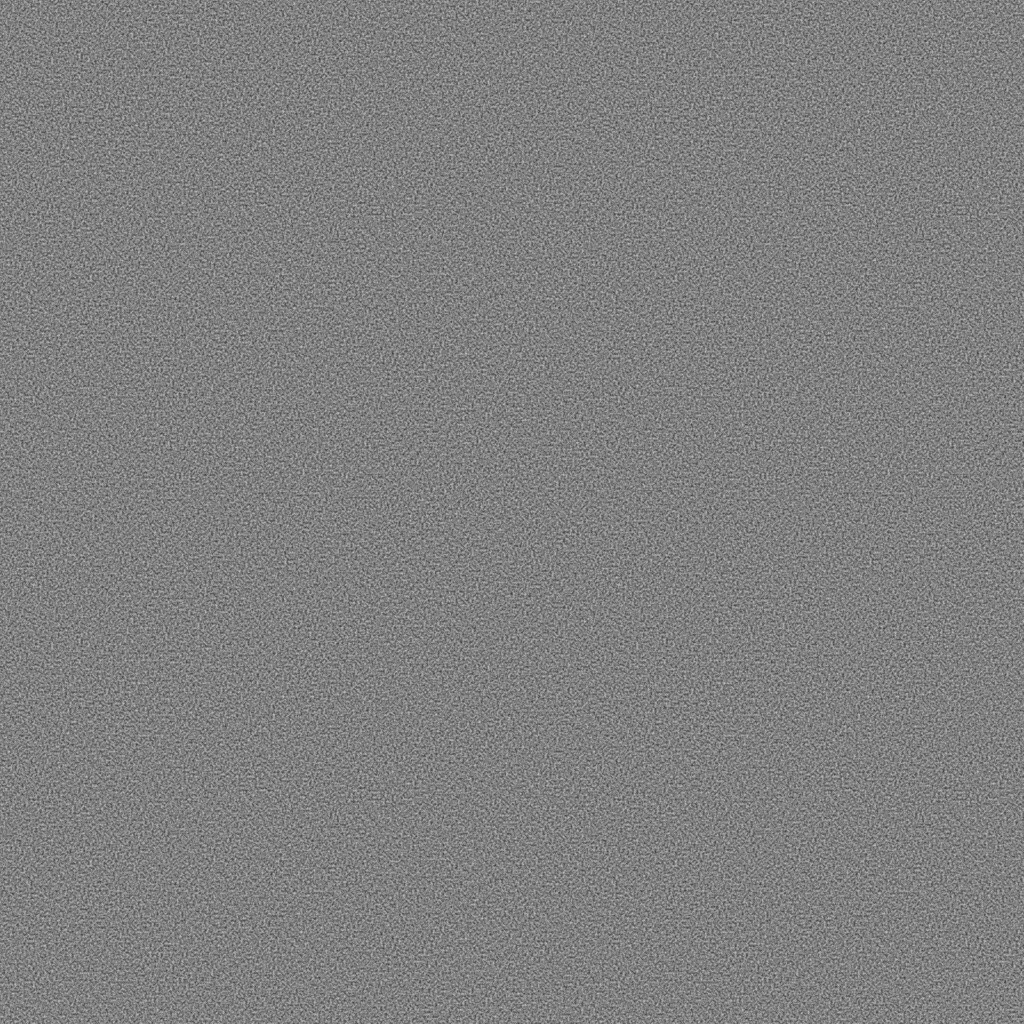
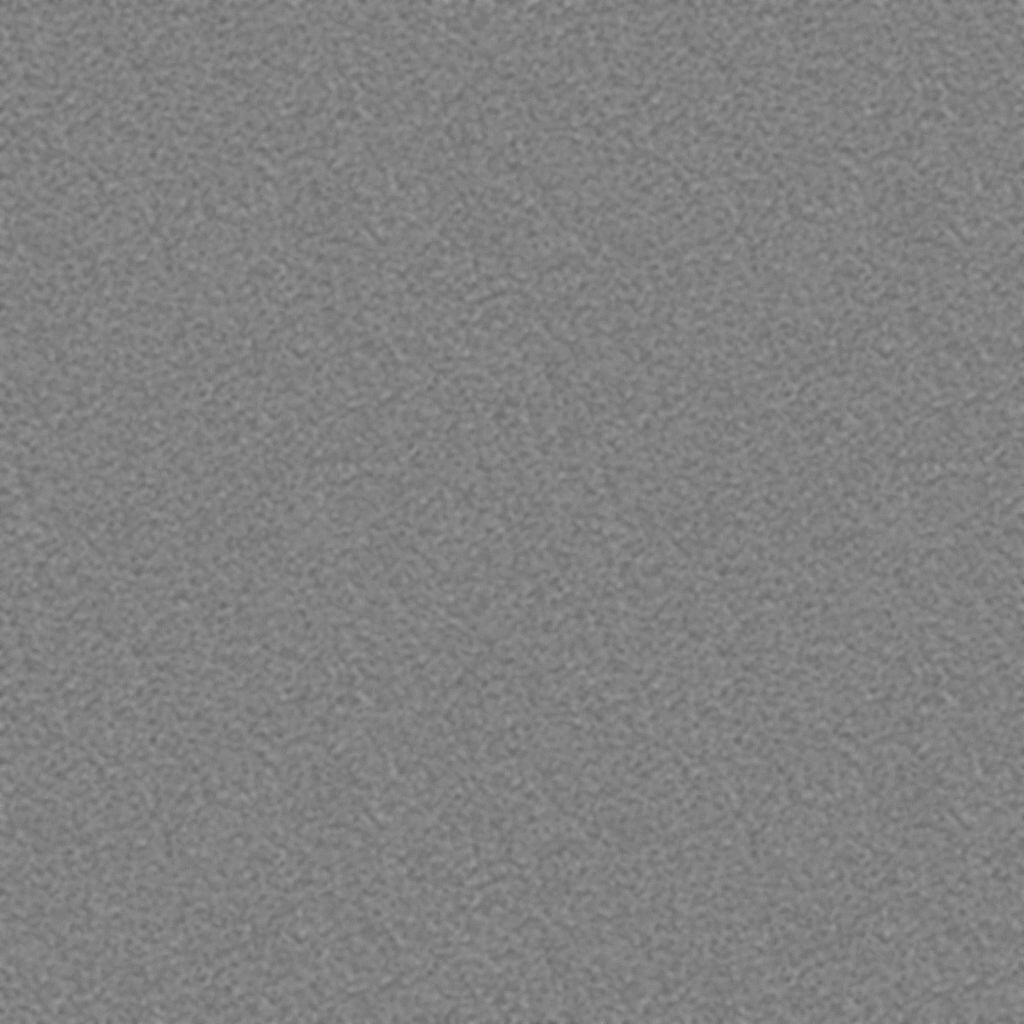
smooth the grain texture so its single pixels don't show on desktop

Changed region(s): [[0.0, 0.0, 1.0, 1.0]]

diff --git a/art/tiles/ember-orange/grain-texture.html b/art/tiles/ember-orange/grain-texture.html
@@ -1,9 +1,9 @@
 <!doctype html>
-<!-- renders editor/grain.png: the grain layer of grain-up.svg (overlay, opacity .5) over 50% grey, so drawing it with background-blend-mode: overlay on any face colour gives the same result as the svg.
+<!-- renders editor/grain.png: the grain layer of grain-up.svg (overlay, opacity .5) over 50% grey, smoothed (a 0.8-unit blur, with more contrast to make up for it) so it shows no single-pixel speckle when a tile is drawn smaller than 512px, so drawing it with background-blend-mode: overlay on any face colour gives the same result as the svg.
      it covers 2x2 faces (320 svg units at 3.2px each, the detail of a 512px face) and wraps seamlessly (stitchTiles), so each tile can show a different part of it.
      regenerate: google-chrome --headless --hide-scrollbars --force-device-scale-factor=1 --window-size=1024,1024 --screenshot=editor/grain.png art/tiles/ember-orange/grain-texture.html -->
 <html><body style="margin:0;background:#808080">
 <svg xmlns="http://www.w3.org/2000/svg" width="1024" height="1024" viewBox="0 0 320 320" style="display:block">
-<filter id="grain" x="0" y="0" width="320" height="320" filterUnits="userSpaceOnUse" color-interpolation-filters="sRGB"><feTurbulence type="fractalNoise" baseFrequency="1.4" numOctaves="4" seed="4" stitchTiles="stitch"/><feColorMatrix type="saturate" values="0"/><feComponentTransfer><feFuncR type="linear" slope="1.6" intercept="-0.3"/><feFuncG type="linear" slope="1.6" intercept="-0.3"/><feFuncB type="linear" slope="1.6" intercept="-0.3"/><feFuncA type="linear" slope="0" intercept="1"/></feComponentTransfer></filter>
+<filter id="grain" x="0" y="0" width="320" height="320" filterUnits="userSpaceOnUse" color-interpolation-filters="sRGB"><feTurbulence type="fractalNoise" baseFrequency="1.4" numOctaves="4" seed="4" stitchTiles="stitch"/><feColorMatrix type="saturate" values="0"/><feGaussianBlur stdDeviation="0.8"/><feComponentTransfer><feFuncR type="linear" slope="5.2" intercept="-2.1"/><feFuncG type="linear" slope="5.2" intercept="-2.1"/><feFuncB type="linear" slope="5.2" intercept="-2.1"/><feFuncA type="linear" slope="0" intercept="1"/></feComponentTransfer></filter>
 <g style="isolation:isolate"><rect width="320" height="320" fill="#808080"/><rect width="320" height="320" filter="url(#grain)" opacity="0.5" style="mix-blend-mode:overlay"/></g>
 </svg></body></html>

diff --git a/CLAUDE.md b/CLAUDE.md
@@ -75,7 +75,7 @@ Tapping empty space cancels back to `idle`. Invalid tile picks are ignored. `sel
 - `game/`: the rules as ES modules with no DOM access: `types.js` (tile/substrate registries, cell helpers), `targets.js`, `effects.js`, `level.js`, `state.js` (pure core) and `controller.js` (taps → moves).
 - `editor/bridge.js`: the only interface between the pages and the rules (see `editor/`).
 - `play/`: the tester page (`index.html`, `play.js`, `play.css`), live at https://catsarecuteandfast.github.io/cardgame/play/. It lists the levels in `levels/pack.json`, grouped under a heading per folder, and plays them with Undo/Redo/Reset and a "Next level" button after a win. There is no editing or sync. It reuses `../editor/editor.css` and `../editor/board.js`, imports `../editor/bridge.js`, and drives the same bridge calls as the editor's Play tab. Its Play screen fills the window height in one column: status and Undo/Redo/Reset at the top, the board sized to fit, the prompt line (with Cancel, or "Next level" after a win), and the hand pinned at the bottom as one row that scrolls sideways (`play/play.css`; `--top-h` is set from the header height in `play.js`). Both pages have a "↻ Reload" button in the header (`hardReload` in `editor/reload.js`, a plain script with no imports loaded before the modules, so it still works when a module fails to load; if the "Loading…" banner is still up when the page's `load` event fires, it changes to "Couldn't load the game. Press ↻ Reload."): it refetches the page and every same-origin file it loaded (script tags, stylesheets, and the imported rules modules, found through `performance.getEntriesByType("resource")`) with `cache: "reload"`, then reloads, because phones kept serving the old cached files after a deploy (`pack.json` is always fetched with `no-cache`). It keeps per-browser `cardgame.tester.solved` (solved levels, shown as ✓) and `cardgame.tester.last` in `localStorage`, keyed `folder/name` because names repeat across folders. On wide screens it keeps the one-column layout (`play.css` overrides the editor's two-column `#play` rule).
-- `art/`: design files from Drifl, not loaded by the game. `art/tiles/ember-orange/` holds the tile designs (`grain-*` for basic tiles, `stripes-*` for notswappable; `-up` is unflipped, `-lit` is flipped) as 160×160 SVGs. The web tiles reimplement them in CSS (see Web input). `grain-texture.html` renders `editor/grain.png` (the regenerate command is in its comment): the SVGs' grain layer over 50% grey, which gives the same result as the SVG when overlaid on any face colour. It covers 2×2 faces at 512px per face (1024px) and wraps seamlessly (`stitchTiles`). The committed `grain.png` is greyscale (825KB), made with a script that has since been removed, so regenerating it gives an RGB file of about 1.2MB.
+- `art/`: design files from Drifl, not loaded by the game. `art/tiles/ember-orange/` holds the tile designs (`grain-*` for basic tiles, `stripes-*` for notswappable; `-up` is unflipped, `-lit` is flipped) as 160×160 SVGs. The web tiles reimplement them in CSS (see Web input). `grain-texture.html` renders `editor/grain.png` (the regenerate command is in its comment): the SVGs' grain layer over 50% grey, which gives the same result as the SVG when overlaid on any face colour, except that it is smoothed (`feGaussianBlur` of 0.8 units, with the contrast raised from 1.6 to 5.2 to make up for it). The SVGs' grain is single-pixel noise, which showed as visible pixels when a tile is drawn smaller than the texture (desktop screens). It covers 2×2 faces at 512px per face (1024px, RGB, about 710KB) and wraps seamlessly (`stitchTiles`).
 - `editor/`: the web level editor, plain HTML/CSS/JS with no build step, made for phone, tablet (landscape) and PC use. A single breakpoint at 900px switches to the two-column layout. It is live at https://catsarecuteandfast.github.io/cardgame/editor/, served by GitHub Pages from `main` at the repo root (every push to `main` redeploys) (`.nojekyll` turns off Jekyll processing). All page scripts except `reload.js` are ES modules (`<script type="module">`) that import the rules statically, so there is no loading step. `editor/board.js` holds what is shared with `play/`: DOM helpers (`$`, `el`), board/hand rendering (`renderCell`, `renderSnapshot`), `playStatus`, `playPrompt`, `attachPlayInput`, `toast`, the colour tables and `catalog` (from the bridge). The editor is split by screen: `tune.js`/`tune.css` (a collapsible "Animations" panel under the Play tab's hand with sliders for the animations' CSS variables, grouped Tile flip/Tile unflip/Tile flip and unflip, each with a ↺ reset, plus "Copy values" and "Defaults"; values are kept in `cardgame.tester.tune.v2` and the open/closed state in `cardgame.editor.tune.open`; Drifl tunes there and sends the values to settle into `editor.css`, and later animations get their sliders there too), `editor.js` (entry point: the shared `ui` state (tab, paint mode, brush, `pickCard`), `render`, `setTab`, `changed`), `store.js` (levels and folders in `localStorage`, level data helpers such as `blankLevel`, `formatLevel`, `normalizeLevel`), `sync.js` (gist sync), `levels.js` (Levels screen, Copy all, import), `edit.js` (Edit tab), `playtest.js` (Play tab, Save solution) and `dialogs.js` (text dialog, clipboard). The modules import `ui`/`render` from `editor.js` and only use them inside functions, so the circular imports are safe. The bridge provides `catalog()` (tile, substrate and effect ids, allowed target kinds and `level_version`, built from the registries), `validate(level)` (null or an error message), `upgradeLevel`, `solution()` (the moves played so far) and `checkSolution(level, moves)` (`{plays}` or `{error}`), and `start`/`tapTile`/`tapCard`/`tapNothing`/`undo`/`redo`/`snapshot` for playtesting, plus `peek(index)`, which returns, without selecting anything, the candidates and preview the card would have if it were selected. All of them take and return plain objects. The snapshot has `game_id` (counts `start()` calls). Its hand entries include `label`, `effect`, target `kind`, the full `target` and `copy`, and the snapshot has `preview`/`blocked`/`needed`. Undo and redo work per play: the bridge keeps the game after each completed play (a play is complete when the plays left change), so undo just steps back. Undo also drops a half-made selection, and making a new play clears the redo stack. Levels are stored in that browser's `localStorage`: `cardgame.levels` (each has `id`, `name`, `folder` (folder id or null), `updated`, `data`, and optionally `solution`) and `cardgame.folders` (`id`, `name`, `collapsed`). Optional sync between devices goes through a secret GitHub gist holding `cardgame-levels.json` (`{version: 1, updated, levels, folders}`), called straight from the browser. The Sync dialog takes a gist-scoped token and a gist id; a blank id creates the gist from this device's levels. Each device keeps `cardgame.sync` (`token`, `gistId`, `remoteUpdated`, `dirty`); the token never leaves that browser except to api.github.com. The editor pulls on load and whenever the tab becomes visible, and pushes about 2 s after a change to levels or folders (and when the tab is hidden). A push first re-reads the gist. If the gist's `updated` differs from `remoteUpdated` while this device also has unsynced edits, a confirm asks which side wins; there is no merging. `localStorage` stays the working copy, so offline edits push later. The open level (`cardgame.current`) is per device and not synced. Folders are one level deep. The Levels screen sorts folders and levels by name with natural ordering, so "Level 2" comes before "Level 10". Deleting a folder moves its levels to Ungrouped. "Copy JSON" exports one level in the same compact layout as `levels/demo.json`. "Copy all" and a folder's "Copy" export `[{name, folder?, level, solution?}]`, sorted by folder and then name like the Levels screen (a folder's Copy first warns, listing them, if any of its levels is invalid or has no working solution, since those would fail the tests in `levels/pack.json`; Clone keeps the solution), and "Import JSON" accepts that list (recreating folders by name, keeping solutions) or a single level. After a win, the Play tab's prompt row shows "Save solution", which stores the moves played on the level record; the Edit tab shows below the validation whether the saved solution still wins the level as it is now (`renderSolution`).
 
 **Play flow** (`editor/bridge.js`): a tap in `board.js` → `tapCard`/`tapTile`/`tapNothing` → `handle(game, intent)` → `snapshot()` (built with `selection`) → `renderSnapshot`.

diff --git a/CHANGELOG.md b/CHANGELOG.md
@@ -2,6 +2,8 @@
 
 Newest first. Each entry gives the date, what changed and why. Older entries also give the commit hash; from this file's creation on, each entry is part of the commit it describes, so `git log -- CHANGELOG.md` finds it.
 
+- **2026-10-07**: smoothed the tile and card grain, since Drifl could see its single pixels on a 1920×1080 screen. The grain was single-pixel noise (as in the SVGs), so when a tile is drawn much smaller than the texture's 512px per face, as on desktop, it showed as harsh speckle. `grain-texture.html` now blurs the noise by 0.8 units and raises its contrast (5.2 instead of 1.6) so the grain stays visible, and `editor/grain.png` was regenerated from it (now RGB, 710KB instead of the 825KB greyscale file).
+
 - **2026-10-07**: "Flip all" no longer shows what it would change, as Drifl asked (working that out is up to the player): its tiles get only the card's dashed outline, with no press preview, fill or ✕ on blocked tiles.
 
 - **2026-10-07**: as Drifl asked, "Flip all" no longer previews with a coloured fill: while it is dragged, its tiles are pushed in (flipped ones let up) more the closer the card gets to the board's centre, and fully while it's selected or held. The drag's closeness to the centre (`--drag`) is now measured only along the axis the card comes in on (vertical from the hand), so sideways movement no longer changes it.
